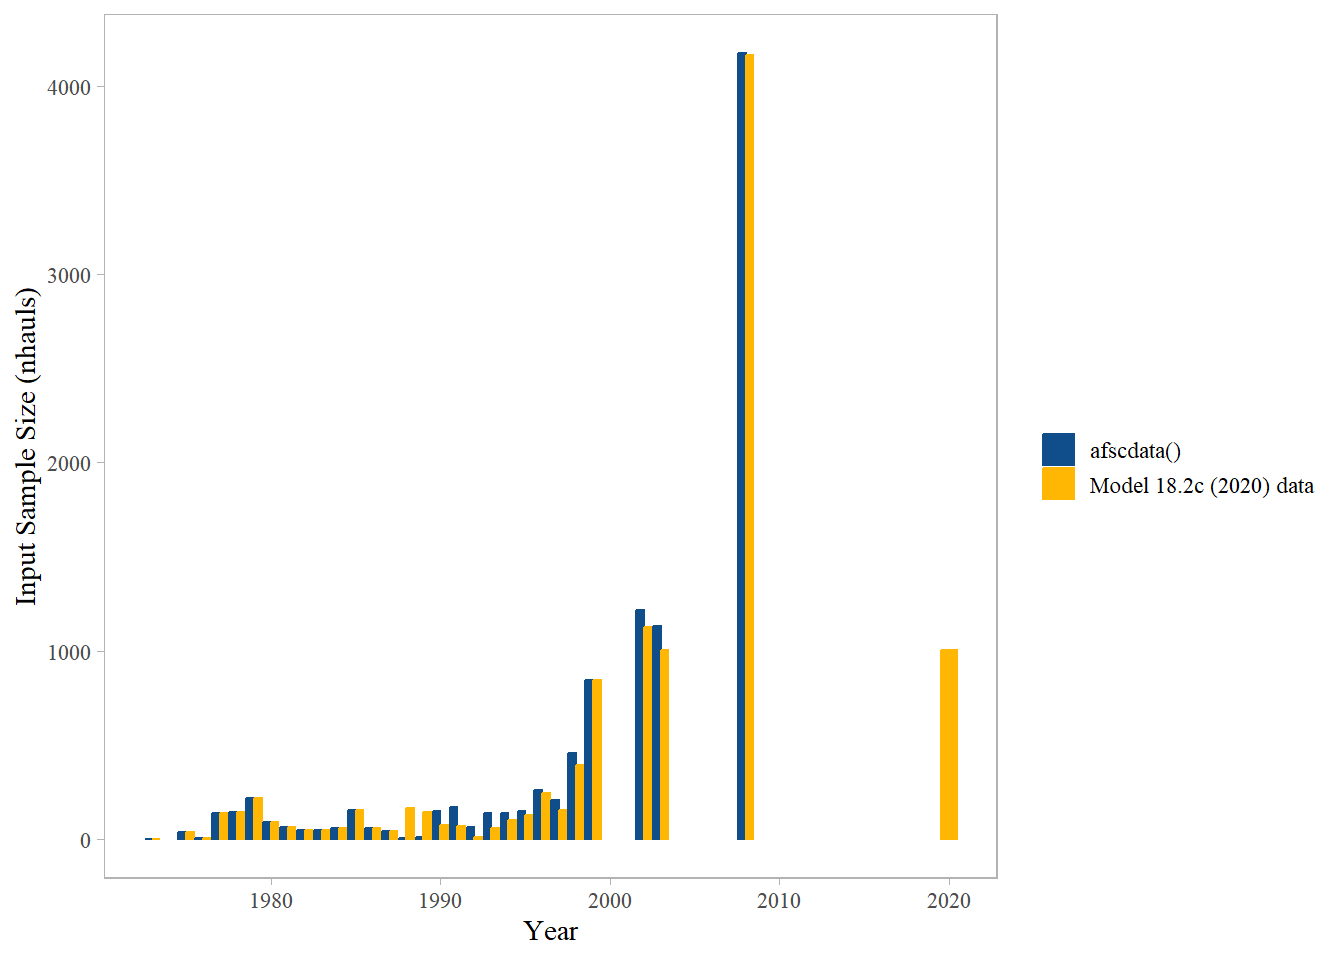
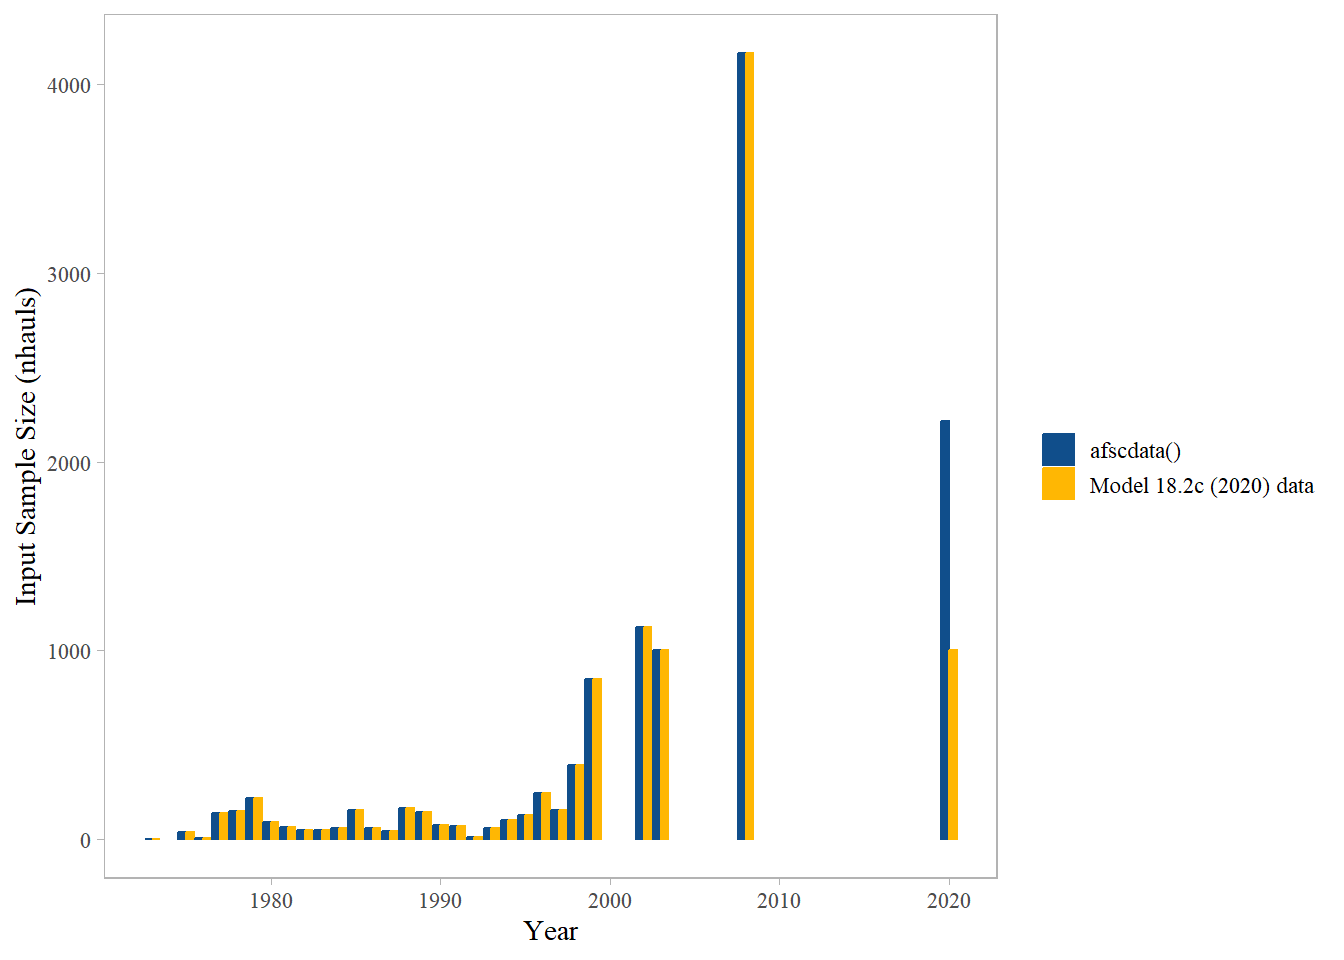
update bridging doc with corrected fishery lcomps

diff --git a/docs/2024_bridging_analysis.html b/docs/2024_bridging_analysis.html
@@ -312,10 +312,9 @@ pre > code.sourceCode > span > a:first-child::before { text-decoration: underlin
 </section>
 <section id="fishery-length-compositions" class="level2">
 <h2 class="anchored" data-anchor-id="fishery-length-compositions">Fishery Length Compositions</h2>
-<p><em>I was unable to reproduce the fishery age- and len-comp routine</em> used for the older version of the model. For reproducibility purposes, I am going to move towards the <code>afscdata</code> approach, which requires about 10% of the code to run, and does not require multiple read-ins of the same data sources. Importantly, I tested Model 18.2c with <em>only</em> the age-comp or len-comp data (separately) changed to those available using my new approach and found the impact on derived quantities to be trivial.</p>
-<p>The current assessment passes the fishery length comp time series but only fits to data in years where there are not age-comp data (1977-1999, 2002-2003, 2008 and 2020). Note that the new data pull routine only gets values from 1988 onwards, so values before that are unchanged.</p>
+<p><em>I was unable to reproduce the fishery and len-comp data</em> using the <code>afscdata</code> approach; the sample sizes were off, and no data were returned &lt; 1982. I think this has to do with foreign fleet availablilty. So, I rebooted the old fishery length comp routine, which calles from <code>OBSINT</code> and <code>NORPAC</code>, and obtained identical input data. The <code>afscdata</code> didn’t really impact the derived quantities, but the fits to the fishery lengths were different enough that I decided to revert methods. Time permitting, I will try to integrate the old approach into the <code>afscdata</code> package.</p>
 <div class="tabset-margin-container"></div><div class="panel-tabset">
-<ul class="nav nav-tabs" role="tablist"><li class="nav-item" role="presentation"><a class="nav-link active" id="tabset-3-1-tab" data-bs-toggle="tab" data-bs-target="#tabset-3-1" role="tab" aria-controls="tabset-3-1" aria-selected="true" href="">Fish Len Comps from 18.c (2020)</a></li><li class="nav-item" role="presentation"><a class="nav-link" id="tabset-3-2-tab" data-bs-toggle="tab" data-bs-target="#tabset-3-2" role="tab" aria-controls="tabset-3-2" aria-selected="false" href="">Fish Len Comps using <code>afscdata</code></a></li><li class="nav-item" role="presentation"><a class="nav-link" id="tabset-3-3-tab" data-bs-toggle="tab" data-bs-target="#tabset-3-3" role="tab" aria-controls="tabset-3-3" aria-selected="false" href="">Spawning Biomass, old vs new length comp data</a></li><li class="nav-item" role="presentation"><a class="nav-link" id="tabset-3-4-tab" data-bs-toggle="tab" data-bs-target="#tabset-3-4" role="tab" aria-controls="tabset-3-4" aria-selected="false" href="">Recruitment Time Series, old vs new length comp data</a></li><li class="nav-item" role="presentation"><a class="nav-link" id="tabset-3-5-tab" data-bs-toggle="tab" data-bs-target="#tabset-3-5" role="tab" aria-controls="tabset-3-5" aria-selected="false" href="">Survey Fits, old vs new length comp data</a></li><li class="nav-item" role="presentation"><a class="nav-link" id="tabset-3-6-tab" data-bs-toggle="tab" data-bs-target="#tabset-3-6" role="tab" aria-controls="tabset-3-6" aria-selected="false" href="">Input Sample Sizes, Fishery Length Data</a></li></ul>
+<ul class="nav nav-tabs" role="tablist"><li class="nav-item" role="presentation"><a class="nav-link active" id="tabset-3-1-tab" data-bs-toggle="tab" data-bs-target="#tabset-3-1" role="tab" aria-controls="tabset-3-1" aria-selected="true" href="">Fish Len Comps from 18.2c (2020)</a></li><li class="nav-item" role="presentation"><a class="nav-link" id="tabset-3-2-tab" data-bs-toggle="tab" data-bs-target="#tabset-3-2" role="tab" aria-controls="tabset-3-2" aria-selected="false" href="">Fish Len Comps using 18.2c’s approach</a></li><li class="nav-item" role="presentation"><a class="nav-link" id="tabset-3-3-tab" data-bs-toggle="tab" data-bs-target="#tabset-3-3" role="tab" aria-controls="tabset-3-3" aria-selected="false" href="">Spawning Biomass, old vs new length comp data</a></li><li class="nav-item" role="presentation"><a class="nav-link" id="tabset-3-4-tab" data-bs-toggle="tab" data-bs-target="#tabset-3-4" role="tab" aria-controls="tabset-3-4" aria-selected="false" href="">Recruitment Time Series, old vs new length comp data</a></li><li class="nav-item" role="presentation"><a class="nav-link" id="tabset-3-5-tab" data-bs-toggle="tab" data-bs-target="#tabset-3-5" role="tab" aria-controls="tabset-3-5" aria-selected="false" href="">Survey Fits, old vs new length comp data</a></li><li class="nav-item" role="presentation"><a class="nav-link" id="tabset-3-6-tab" data-bs-toggle="tab" data-bs-target="#tabset-3-6" role="tab" aria-controls="tabset-3-6" aria-selected="false" href="">Input Sample Sizes, Fishery Length Data</a></li></ul>
 <div class="tab-content">
 <div id="tabset-3-1" class="tab-pane active" role="tabpanel" aria-labelledby="tabset-3-1-tab">
 <div class="cell">
@@ -685,10 +684,10 @@ pre > code.sourceCode > span > a:first-child::before { text-decoration: underlin
 <h2 class="anchored" data-anchor-id="summary-bridging">Summary bridging</h2>
 <p>Post data, I tuned the rec-dev ramp and did 3 iterations of Francis weighting from scratch. Will re-do this one last time once all the new data are in but this helps us check for consistency.</p>
 <div class="cell">
-<div class="sourceCode cell-code" id="cb13"><pre class="sourceCode r code-with-copy"><code class="sourceCode r"><span id="cb13-1"><a href="#cb13-1" aria-hidden="true" tabindex="-1"></a><span class="co"># SSplotComparisons(compsummary_8, </span></span>
-<span id="cb13-2"><a href="#cb13-2" aria-hidden="true" tabindex="-1"></a><span class="co">#                   legendlabels = llabs2, </span></span>
+<div class="sourceCode cell-code" id="cb13"><pre class="sourceCode r code-with-copy"><code class="sourceCode r"><span id="cb13-1"><a href="#cb13-1" aria-hidden="true" tabindex="-1"></a><span class="co"># SSplotComparisons(compsummary_8,</span></span>
+<span id="cb13-2"><a href="#cb13-2" aria-hidden="true" tabindex="-1"></a><span class="co">#                   legendlabels = llabs2,</span></span>
 <span id="cb13-3"><a href="#cb13-3" aria-hidden="true" tabindex="-1"></a><span class="co">#                   indexPlotEach = TRUE,</span></span>
-<span id="cb13-4"><a href="#cb13-4" aria-hidden="true" tabindex="-1"></a><span class="co">#                   print = TRUE, </span></span>
+<span id="cb13-4"><a href="#cb13-4" aria-hidden="true" tabindex="-1"></a><span class="co">#                   print = TRUE,</span></span>
 <span id="cb13-5"><a href="#cb13-5" aria-hidden="true" tabindex="-1"></a><span class="co">#                   plotdir = here::here(year, 'model_runs','02_bridging','02.08_18.2c_2020_ss3v33022w-newdata-biasramp-francis'))</span></span>
 <span id="cb13-6"><a href="#cb13-6" aria-hidden="true" tabindex="-1"></a></span>
 <span id="cb13-7"><a href="#cb13-7" aria-hidden="true" tabindex="-1"></a></span>
